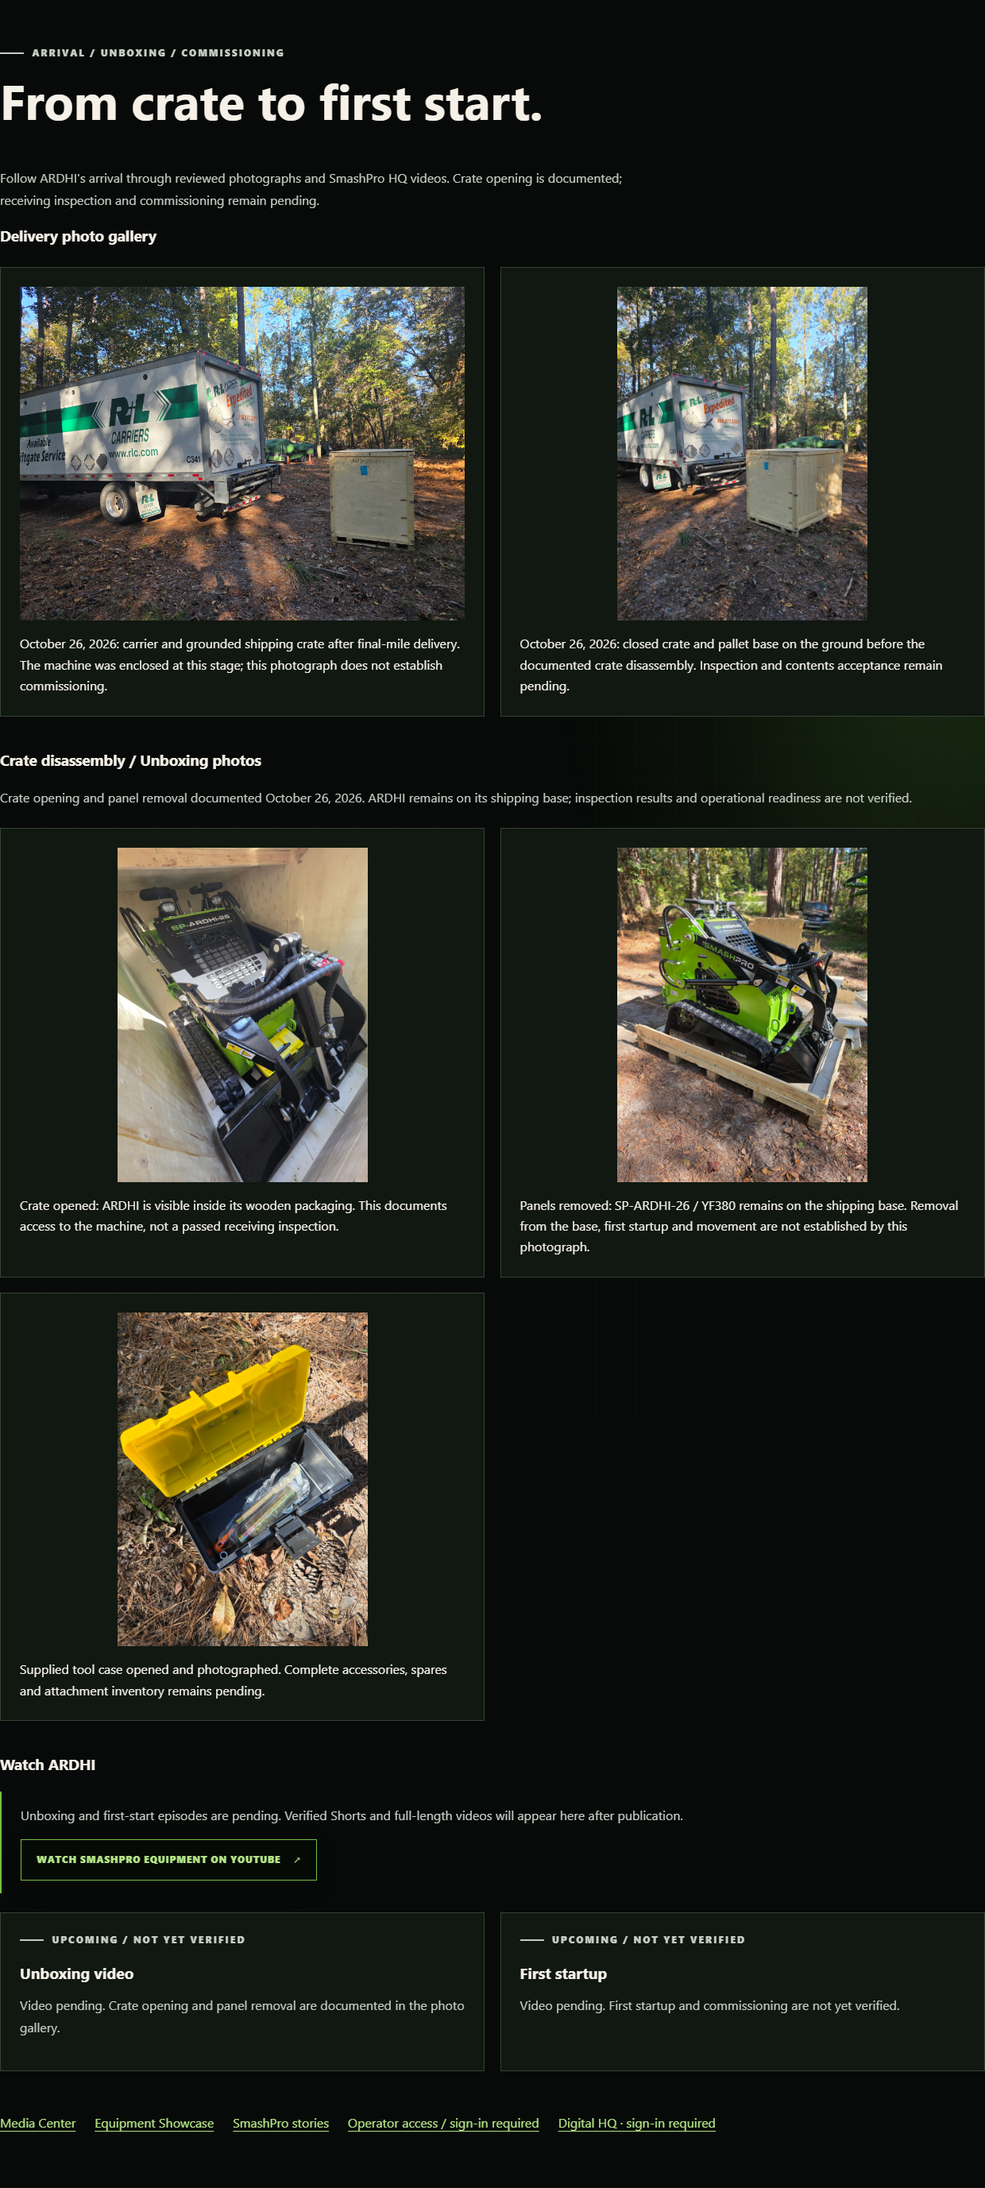
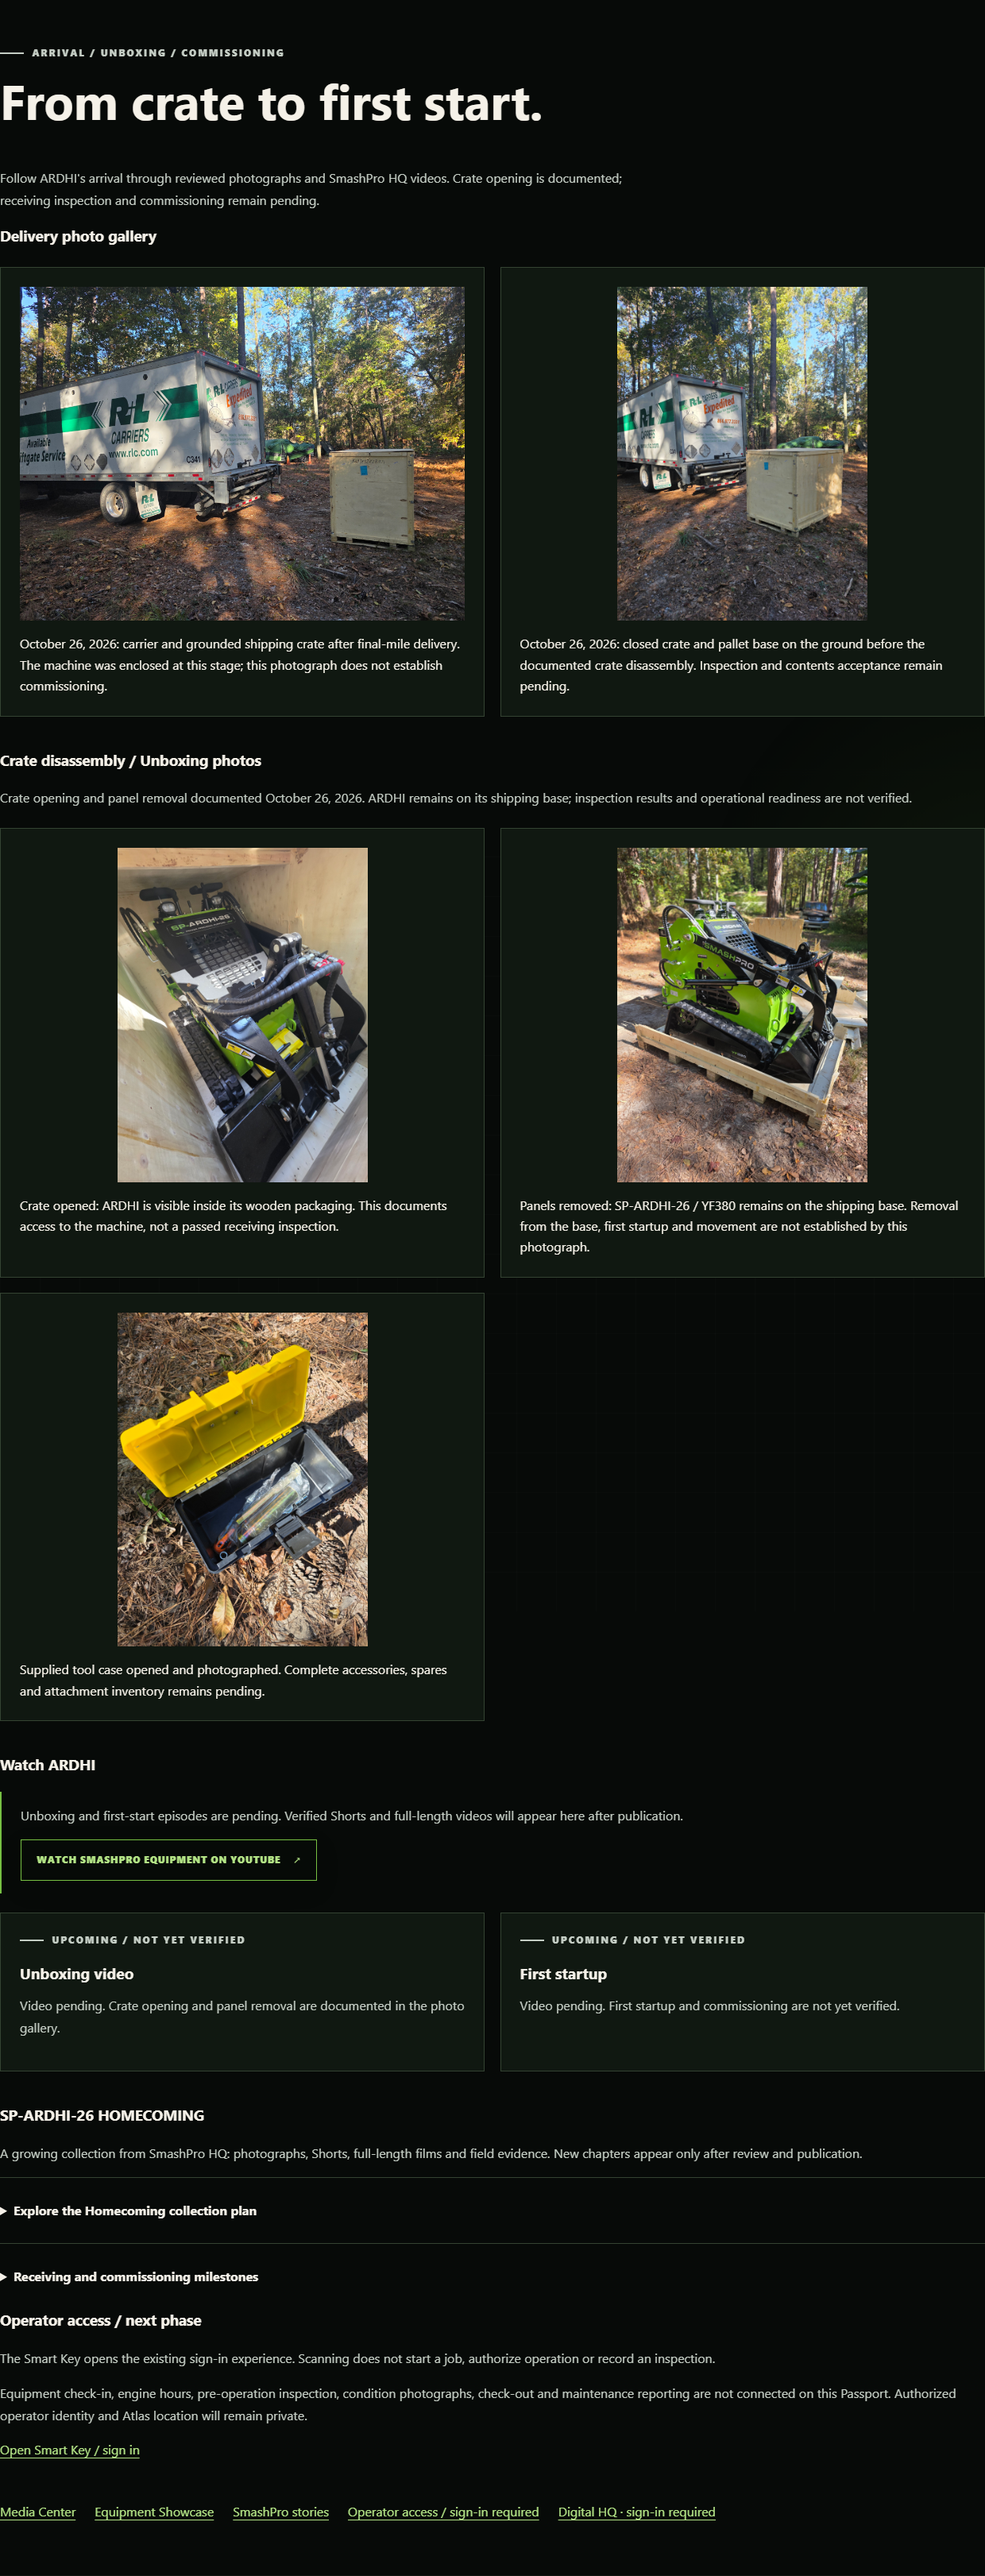
Prepare ARDHI Homecoming and commissioning handoff

diff --git a/src/data/ardhiHomecoming.ts b/src/data/ardhiHomecoming.ts
@@ -1,0 +1,43 @@
+import { ardhiDeliveryPhotos, ardhiUnboxingPhotos } from './ardhiDelivery';
+
+// Editorial associations to existing media IDs, not another asset or media registry.
+export const ardhiHomecoming = {
+  id: 'sp-ardhi-26-homecoming', assetId: 'SP-ARDHI-26',
+  title: 'SP-ARDHI-26 HOMECOMING', publisher: 'SmashPro HQ',
+  formats: ['photography', 'youtube-long-form', 'youtube-short', 'vertical-social', 'passport-evidence'],
+  categories: [
+    ['Carrier delivery', [ardhiDeliveryPhotos[0].id!]],
+    ['Crate arrival', [ardhiDeliveryPhotos[1].id!]],
+    ['Crate inspection', []], ['Opening the crate', [ardhiUnboxingPhotos[0].id!]],
+    ['First reveal', [ardhiUnboxingPhotos[1].id!]],
+    ['Equipment walkaround', []], ['Factory branding inspection', []],
+    ['Included attachments', []], ['Engine identification', []], ['Fluid inspections', []],
+    ['First startup', []], ['First movement', []], ['First operator check-in', []], ['First field demonstration', []],
+  ].map(([title, mediaIds]) => ({ title: title as string, mediaIds: mediaIds as string[] })),
+};
+
+export type CommissioningMilestone = {
+  id: string; title: string; status: 'pending' | 'partial' | 'complete'; date: string | null;
+  notes: string; photoIds: string[]; videoIds: string[]; inspectionEvidenceIds: string[];
+};
+// Operator attribution belongs in a protected server record, never this public projection.
+// Dates describe supplied evidence, not a fabricated inspection completion date.
+export const ardhiCommissioningMilestones: CommissioningMilestone[] = [
+  { id: 'delivered', title: 'Delivered', status: 'complete', date: '2026-10-26', notes: 'Owner-confirmed carrier delivery and photographs.', photoIds: ardhiDeliveryPhotos.map(p => p.id!), videoIds: [], inspectionEvidenceIds: [] },
+  ...[
+    ['receiving-inspection', 'Receiving Inspection'], ['unboxing', 'Unboxing'],
+    ['assembly', 'Assembly Verification'], ['engine', 'Engine Inspection'],
+    ['hydraulics', 'Hydraulic System Inspection'], ['startup', 'First Startup'],
+    ['movement', 'Initial Movement'], ['familiarization', 'Operator Familiarization'],
+    ['commissioning', 'Commissioning Complete'], ['field-ready', 'Field Ready'],
+    ['customer-deployment', 'First Customer Deployment'],
+  ].map(([id, title]): CommissioningMilestone => ({
+    id, title, status: id === 'unboxing' ? 'partial' : 'pending',
+    date: id === 'unboxing' ? '2026-10-26' : null,
+    notes: id === 'unboxing' ? 'Crate opened and panels removed; complete inventory and removal from shipping base remain unverified.' : 'Awaiting documented evidence and review.',
+    photoIds: id === 'unboxing' ? ardhiUnboxingPhotos.map(p => p.id!) : [], videoIds: [], inspectionEvidenceIds: [],
+  })),
+];
+
+// Explicit public readiness snapshot. Only a reviewed release may advance it.
+export const ardhiReadiness = { operational: false, rentalReady: false, operatorCheckInEnabled: false } as const;

diff --git a/src/components/ArdhiHomecoming.tsx b/src/components/ArdhiHomecoming.tsx
@@ -1,0 +1,24 @@
+import { ardhiHomecoming, ardhiCommissioningMilestones } from '../data/ardhiHomecoming';
+
+export function ArdhiHomecoming() {
+  return <div className="ardhi-homecoming" id="homecoming">
+    <h3>{ardhiHomecoming.title}</h3>
+    <p>A growing collection from SmashPro HQ: photographs, Shorts, full-length films and field evidence. New chapters appear only after review and publication.</p>
+    <details><summary>Explore the Homecoming collection plan</summary>
+      <ul>{ardhiHomecoming.categories.map(category => <li key={category.title}>{category.title} — {category.mediaIds.length ? <a href={category.title === 'Carrier delivery' || category.title === 'Crate arrival' ? '#delivery-media' : '#unboxing-photos'}>Photographs available</a> : 'Media pending'}</li>)}</ul>
+    </details>
+    <details id="commissioning-plan"><summary>Receiving and commissioning milestones</summary>
+      <p>Delivered does not mean operational or rental-ready. Crate opening is photographed; inspections and commissioning are still pending.</p>
+      <ol className="ardhi-commissioning-plan">{ardhiCommissioningMilestones.map(milestone => <li key={milestone.id}>
+        <strong>{milestone.title}</strong><span>{milestone.status === 'complete' ? 'Documented' : milestone.status === 'partial' ? 'Partially documented' : 'Pending'}</span>
+        {milestone.date && <time dateTime={milestone.date}>{milestone.date}</time>}<p>{milestone.notes}</p>
+      </li>)}</ol>
+    </details>
+    <aside id="operator-preparation" aria-labelledby="operator-preparation-title">
+      <h3 id="operator-preparation-title">Operator access / next phase</h3>
+      <p>The Smart Key opens the existing sign-in experience. Scanning does not start a job, authorize operation or record an inspection.</p>
+      <p>Equipment check-in, engine hours, pre-operation inspection, condition photographs, check-out and maintenance reporting are not connected on this Passport. Authorized operator identity and Atlas location will remain private.</p>
+      <a href="/k/ARDHI26-K01/">Open Smart Key / sign in</a>
+    </aside>
+  </div>;
+}

diff --git a/src/data/passportRecords.ts b/src/data/passportRecords.ts
@@ -414,12 +414,12 @@ const unboxing = ardhi.records.find(record => record.id === "ardhi-unboxing-2026
 Object.assign(unboxing, { kind: "lifecycle_event", evidence_state: "verified", source_type: "smashpro", stage_id: "receiving_inspection", event_type: "crate_opened", evidence_ids: ardhiUnboxingPhotos.map(photo => photo.id!) });
 // Public delivery evidence is an owner-confirmed carrier summary plus reviewed photographs.
 const delivery = ardhi.records.find(record => record.id === "ardhi-delivery-20261026")!;
-Object.assign(delivery, { kind: "lifecycle_event", evidence_state: "verified", source_type: "carrier", stage_id: "delivery", event_type: "delivered", evidence_ids: ["ardhi-delivery-confirmation-20261026"] });
+Object.assign(delivery, { kind: "lifecycle_event", evidence_state: "verified", source_type: "carrier", stage_id: "arrival", event_type: "completion", evidence_ids: ["ardhi-delivery-confirmation-20261026"] });
 ardhi.records.push({
   id: "ardhi-delivery-confirmation-20261026", asset_id: ardhi.asset.id,
   kind: "evidence", title: "Owner-confirmed carrier delivery", detail: ardhiDelivery.evidence, evidence_classification: "received", evidence_ids: ardhiDeliveryPhotos.map(photo => photo.id!),
   evidence_state: "verified", source_type: "carrier", source_ref: `${ardhiDelivery.carrier} / ${ardhiDelivery.pro}`,
-  source_visibility: "public", visibility: "public", sort_order: 220, stage_id: "delivery",
+  source_visibility: "public", visibility: "public", sort_order: 220, stage_id: "arrival",
 });
 const portPhoto = ardhi.records.find(record => record.id === "ardhi-us-port-arrival")!;
 Object.assign(portPhoto, { media_kind: "shipping", source_type: "manufacturer", evidence_state: "verified", productionEvidence: false, factoryEvidence: false });

diff --git a/src/components/ArdhiDelivery.tsx b/src/components/ArdhiDelivery.tsx
@@ -1,6 +1,7 @@
 import { ardhiDelivery, ardhiDeliveryStages, ardhiDeliveryVideos, ardhiMediaSlots } from '../data/ardhiDelivery';
 import { ardhiPortArrival } from '../data/ardhiPortArrival';
 import type { Equipment } from '../types/equipment';
+import { ArdhiHomecoming } from './ArdhiHomecoming';
 import { EquipmentWatch } from './EquipmentWatch';
 import '../styles/ardhi-delivery.css';
 
@@ -30,6 +31,7 @@ export function ArdhiDeliveryMedia({ item }: { item: Equipment }) {
     </div>
     <div id="watch-ardhi"><h3>Watch ARDHI</h3><EquipmentWatch videos={ardhiDeliveryVideos} equipmentId={item.fleetId} channelUrl="https://www.youtube.com/@SmashProHQ" emptyMessage="Unboxing and first-start episodes are pending. Verified Shorts and full-length videos will appear here after publication." /></div>
     <div className="ardhi-delivery-media-grid">{ardhiMediaSlots.map(slot => <article className="ardhi-media-pending" key={slot.id}><p className="eyebrow">Upcoming / Not yet verified</p><h4>{slot.title}</h4><p>{slot.detail}</p></article>)}</div>
+    <ArdhiHomecoming />
     <nav className="ardhi-delivery-links" aria-label="Follow ARDHI across SmashPro"><a href="/media/">Media Center</a><a href="/equipment/#fleet">Equipment Showcase</a><a href="/">SmashPro stories</a><a id="check-in" href="/k/ARDHI26-K01/">Operator access / sign-in required</a><a href="/dashboard/">Digital HQ · sign-in required</a></nav>
   </section>;
 }

diff --git a/src/styles/ardhi-delivery.css b/src/styles/ardhi-delivery.css
@@ -27,3 +27,11 @@
 .ardhi-delivery .equipment-watch__player iframe, .ardhi-delivery .equipment-watch__player button { width: 100%; height: 100%; border: 1px solid #49613d; }
 @media(max-width: 1000px) { .ardhi-delivery-stages { grid-template-columns: repeat(2, minmax(0, 1fr)); } .ardhi-delivery-proof dl { grid-template-columns: repeat(2, minmax(0, 1fr)); } }
 @media(max-width: 600px) { .ardhi-delivery-media-grid, .ardhi-delivery-stages, .ardhi-delivery-proof dl { grid-template-columns: 1fr; } }
+
+.ardhi-homecoming { margin-block: 2.5rem; }
+.ardhi-homecoming details { border-top: 1px solid #344332; padding-block: 1rem; }
+.ardhi-homecoming summary { cursor: pointer; padding: .75rem 0; font-weight: 700; }
+.ardhi-homecoming summary:focus-visible { outline: 3px solid #e4c786; outline-offset: 4px; }
+.ardhi-homecoming li { margin-block: .8rem; line-height: 1.7; }
+.ardhi-commissioning-plan { display: grid; grid-template-columns: repeat(auto-fit, minmax(min(100%, 250px), 1fr)); gap: 1.5rem; padding-left: 1.5rem; }
+.ardhi-commissioning-plan span, .ardhi-commissioning-plan time { display: block; color: #c5cec5; }

diff --git a/docs/fleet/SP-ARDHI-26-HOMECOMING.md b/docs/fleet/SP-ARDHI-26-HOMECOMING.md
@@ -1,0 +1,50 @@
+# SP-ARDHI-26 Homecoming and operational handoff
+
+Release preparation: October 26, 2026. Canonical public identity: SP-ARDHI-26 / YF380. This collection is an editorial association, not a new equipment registry or backend media record.
+
+## Publication and evidence
+
+`src/data/ardhiHomecoming.ts` defines the 14 requested collection categories and references the existing reviewed gallery IDs. Publisher: **SmashPro HQ**, never Garage. Supported publication formats: photography, YouTube full-length, YouTube Shorts, vertical social and Passport evidence. Only real, reviewed publications receive media IDs; empty categories are explicit pending slots. The tool-case photograph supports partial unboxing, not acceptance of the complete attachments inventory.
+
+Reuse the existing HQ media record ID, asset association and original platform video ID. Confirm public/equipment placement permission, publication and verification dates. Project approved YouTube records into `ardhiDeliveryVideos`; its existing renderer supports full-length and short aspect ratios and requires a user click before connecting the player. Vertical social media stays a publishing association until an approved platform URL exists. Do not invent embeds, duplicate WordPress attachments, create speculative article URLs or post automatically. The existing Media Center and site home remain the entry points until an ARDHI-specific article is published.
+
+## Commissioning record contract
+
+The public plan has all 12 milestones, date, status, notes, photo IDs, video IDs and inspection evidence IDs. Delivered is complete; unboxing is partial (crate opened/panels removed). Ten others are pending with null dates. Existing detailed checklist and historical records remain intact.
+
+The future **protected** HQ record must associate each milestone with the existing canonical equipment row and contain: milestone ID, observed date, status, server-derived operator reference, private notes, reviewed public summary, existing photo/video/inspection references, reviewer identity, review timestamp and audit event. Operator references and private notes must never enter this static public data module. No private operator value has been collected or guessed. Completion requires reviewed evidence; inspection gates need actual inspection results and reviewer sign-off, not just an image. Readiness remains explicitly false in `ardhiReadiness`; these frontend flags do not update an operational system.
+
+## Fleet Passport Operating System baseline
+
+The repository already contains `docs/fleet-operating-system/architecture.md`, `api.openapi.json`, `components.md` and responsive operator/check-in/check-out wireframes. These are explicitly proposals, not an activated operator system. Reuse them rather than creating another protocol. The proposed same-origin `/api/passport/v1` gateway is not provisioned by this static site; the proposed `passport.*` grants require mapping to real HQ policy. Preserve no-store private responses, CSRF, server-derived actor, assignment/asset scope, idempotency and immutable journal semantics. Existing wireframes remain review-only outside the production entry list; the public readiness notice is the only new frontend operator surface.
+
+## Ecosystem audit and remaining work
+
+| System | Inspected source / existing connection | Readiness and boundary |
+| --- | --- | --- |
+| Equipment Showcase | Canonical `equipment.ts`, existing fleet card/public URL | Same asset and delivered label; no duplicate machine. |
+| Passport records | `passportRecords.ts`, public projection and protected regression fixtures | Receiving inspection; original factory/export/vessel/port records retained. |
+| HQ media / WordPress | Existing `/media/`, `/`, `@SmashProHQ` | Navigation only; no newly published article or remote media collection claimed. |
+| Partner profiles | Existing ARDHI Expo/sponsor and partner links | Preserved; inquiry is not partner approval or a new sponsorship. |
+| Fleet Passport OS | HQ `docs/fleet-passport-architecture.md` in `hq-fleet-location-20260911` | HQ owns canonical row, identifiers, evidence and lifecycle. Architecture source is not proof of deployed bindings. Resolve SP-ARDHI-26 to its existing row; never seed a second asset. |
+| Smart Key | HQ `ops/smart-equipment-key/public/k/ARDHI26-K01/index.php` in `hq-smart-key-direct` | Website session explicitly is not operator authorization. Checkout/return/inspection are described as future work. Preserve existing route, authentication and QR anchor. |
+| SPGo Fleet | `api/includes/spgo_fleet.php`, `docs/sp-fleet-mvp.md` | Existing resources include fleet checkout/return inspection, media upload, incidents, reservations and admin maintenance. Contractor identity is derived from bearer session. Source presence is not a live deployment or ARDHI assignment test. No new endpoint or request invented. |
+| Atlas | Equipment `domain/atlas.ts`, `AtlasStatusPanel`; HQ architecture | Existing historical public location projection remains separate from delivery proof. Protected exact locations must never flow to the public Passport. No new observation or location registration. |
+
+Before enabling operator check-in: verify deployed SPGo resource contracts and canonical ARDHI mapping; authenticate SP Tech and enforce equipment/assignment scope server-side; verify approved actor/inspection transitions, monotonic engine hours, approved condition uploads, checkout/return and incident/maintenance behavior. Define CSRF/session mediation for browser use rather than placing bearer tokens in public URLs. QR scans open a workflow and never prove custody, start a job or grant authorization. Atlas observation submission needs a protected approved adapter, explicit location consent, provenance and private-only projection. Test unauthorized, expired-session, wrong-asset, duplicate submission and outage cases. No operational form is enabled here.
+
+## Release and remaining evidence
+
+Owner authorized merge/deployment of PR #115 in the production-release mission. Use the existing manual main-branch GitHub workflow, including shipment release health checks; no database, SPGo, WordPress or authentication deployment. Verify the deployed commit and decoded images on mobile/desktop, public data and privacy. Preserve delivery source originals. Public JPEGs retain only orientation and ICC metadata; no GPS/vendor payload.
+
+Still needed: receiving inspection, complete inventory, shipping-base removal, assembly verification, engine identification/inspection, hydraulic/fluid inspections, actual first start/movement, operator familiarization, reviewed commissioning sign-off, field validation and first customer deployment. Published HQ videos and any dedicated WordPress article/media IDs remain pending. Carrier document is optional if a privacy-reviewed publishable version is available. Recommended next milestone: authenticated receiving-inspection evidence capture against the existing canonical asset, before operational check-in activation.
+
+## Release review results
+
+- PR review found a canonical arrival-stage mapping mismatch and stale browser expectations. Delivery now uses the existing `arrival` / `completion` contract, with regression assertions for complete arrival, current receiving inspection and pending commissioning. Existing milestone IDs, historical records and photo IDs remain unchanged.
+- `npm run validate`: TypeScript, 171 unit tests, production build and public-index/MZIGO-media/Passport artifact checks passed.
+- Delivery browser suite: 4/4 passed at 390/768/1440; all five images decoded, milestone plan and operator notice verified. Updated captures are local previews, not deployed screenshots.
+- Existing shipment browser suite: 14/14 passed, including API unavailable/timeout/cache and MZIGO regression. Existing flagship suite: 11/11 passed at 320/390/768/1440, including archive, sponsor, QR identity and keyboard interactions.
+- Ten additional local browser checks passed: MZIGO, NYASI, UMBA, LIFTMATE and AKASO at 390/1440, HTTP 200, headings, no horizontal overflow or JavaScript errors.
+- Production read-only checks: Passport, Showcase, Media Center, WordPress home, dashboard and Smart Key all HTTP 200. Production browser review at 390/1440 still shows the old port-processing page with no delivery gallery. Anonymous availability is not authenticated operator verification.
+- **Release hold:** the required shipment health check returned HTTP 404 from `https://api.smashpro.app/api/fleet/shipment/SP-ARDHI-26`. `docs/deployment.md` requires `shipment_release=true` for shipment/evidence changes. No merge/deploy is performed while this gate fails. A scoped delivery-evidence gate requires the owner's pending approval; the outage is not suppressed and no backend data was changed.

diff --git a/docs/fleet/SP-ARDHI-26-DELIVERY-20261026.md b/docs/fleet/SP-ARDHI-26-DELIVERY-20261026.md
@@ -46,7 +46,7 @@ Checks include TypeScript, unit tests, production build, public index/media/pass
 
 Protected hash fixtures are refreshed only for the reviewed ARDHI renderer and shared equipment-file change. The MZIGO portion, original drive-history hash, shared styles and deployment workflow remain unchanged.
 
-No merge or deployment is authorized in this sprint. Remaining evidence: publishable carrier confirmation if desired; receiving inspection; complete accessory inventory; engine/hydraulic checks; verified first-start/first-movement footage; operator commissioning; first field test; any future delivery article and HQ media association IDs.
+The subsequent production-release mission authorizes merge and deployment after validation. See [Homecoming and operational handoff](SP-ARDHI-26-HOMECOMING.md). Remaining evidence: publishable carrier confirmation if desired; receiving inspection; complete accessory inventory; engine/hydraulic checks; verified first-start/first-movement footage; operator commissioning; first field test; any future delivery article and HQ media association IDs.
 
 ### Results
 
